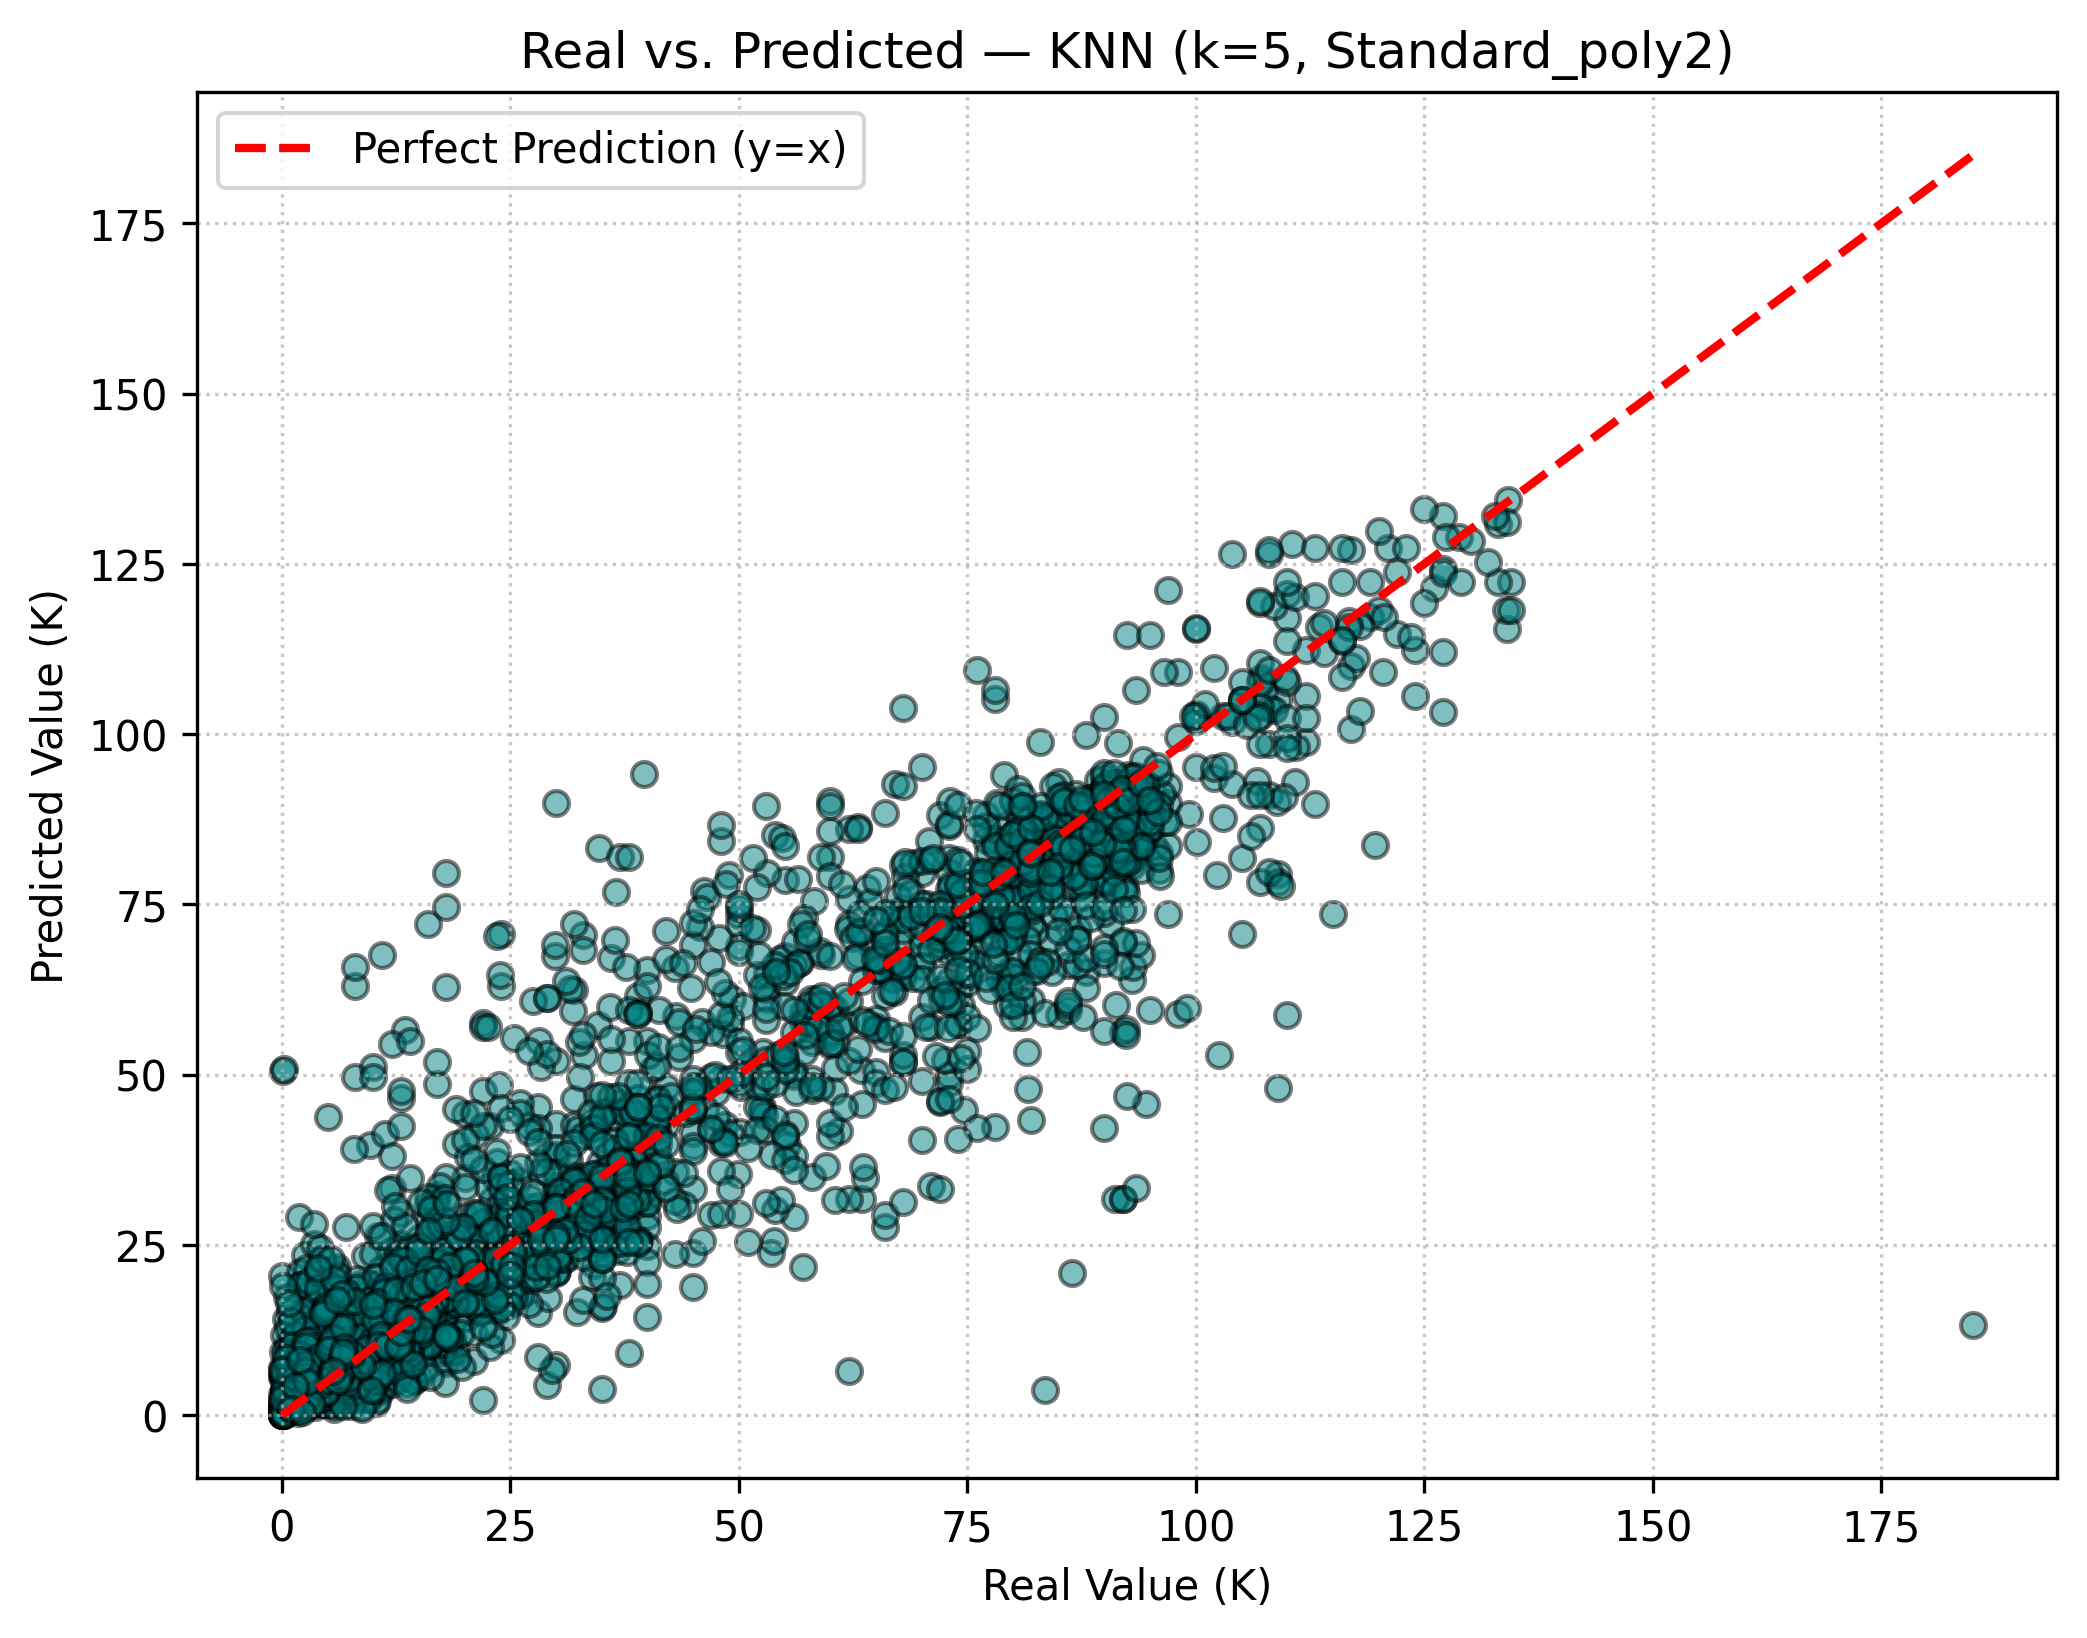
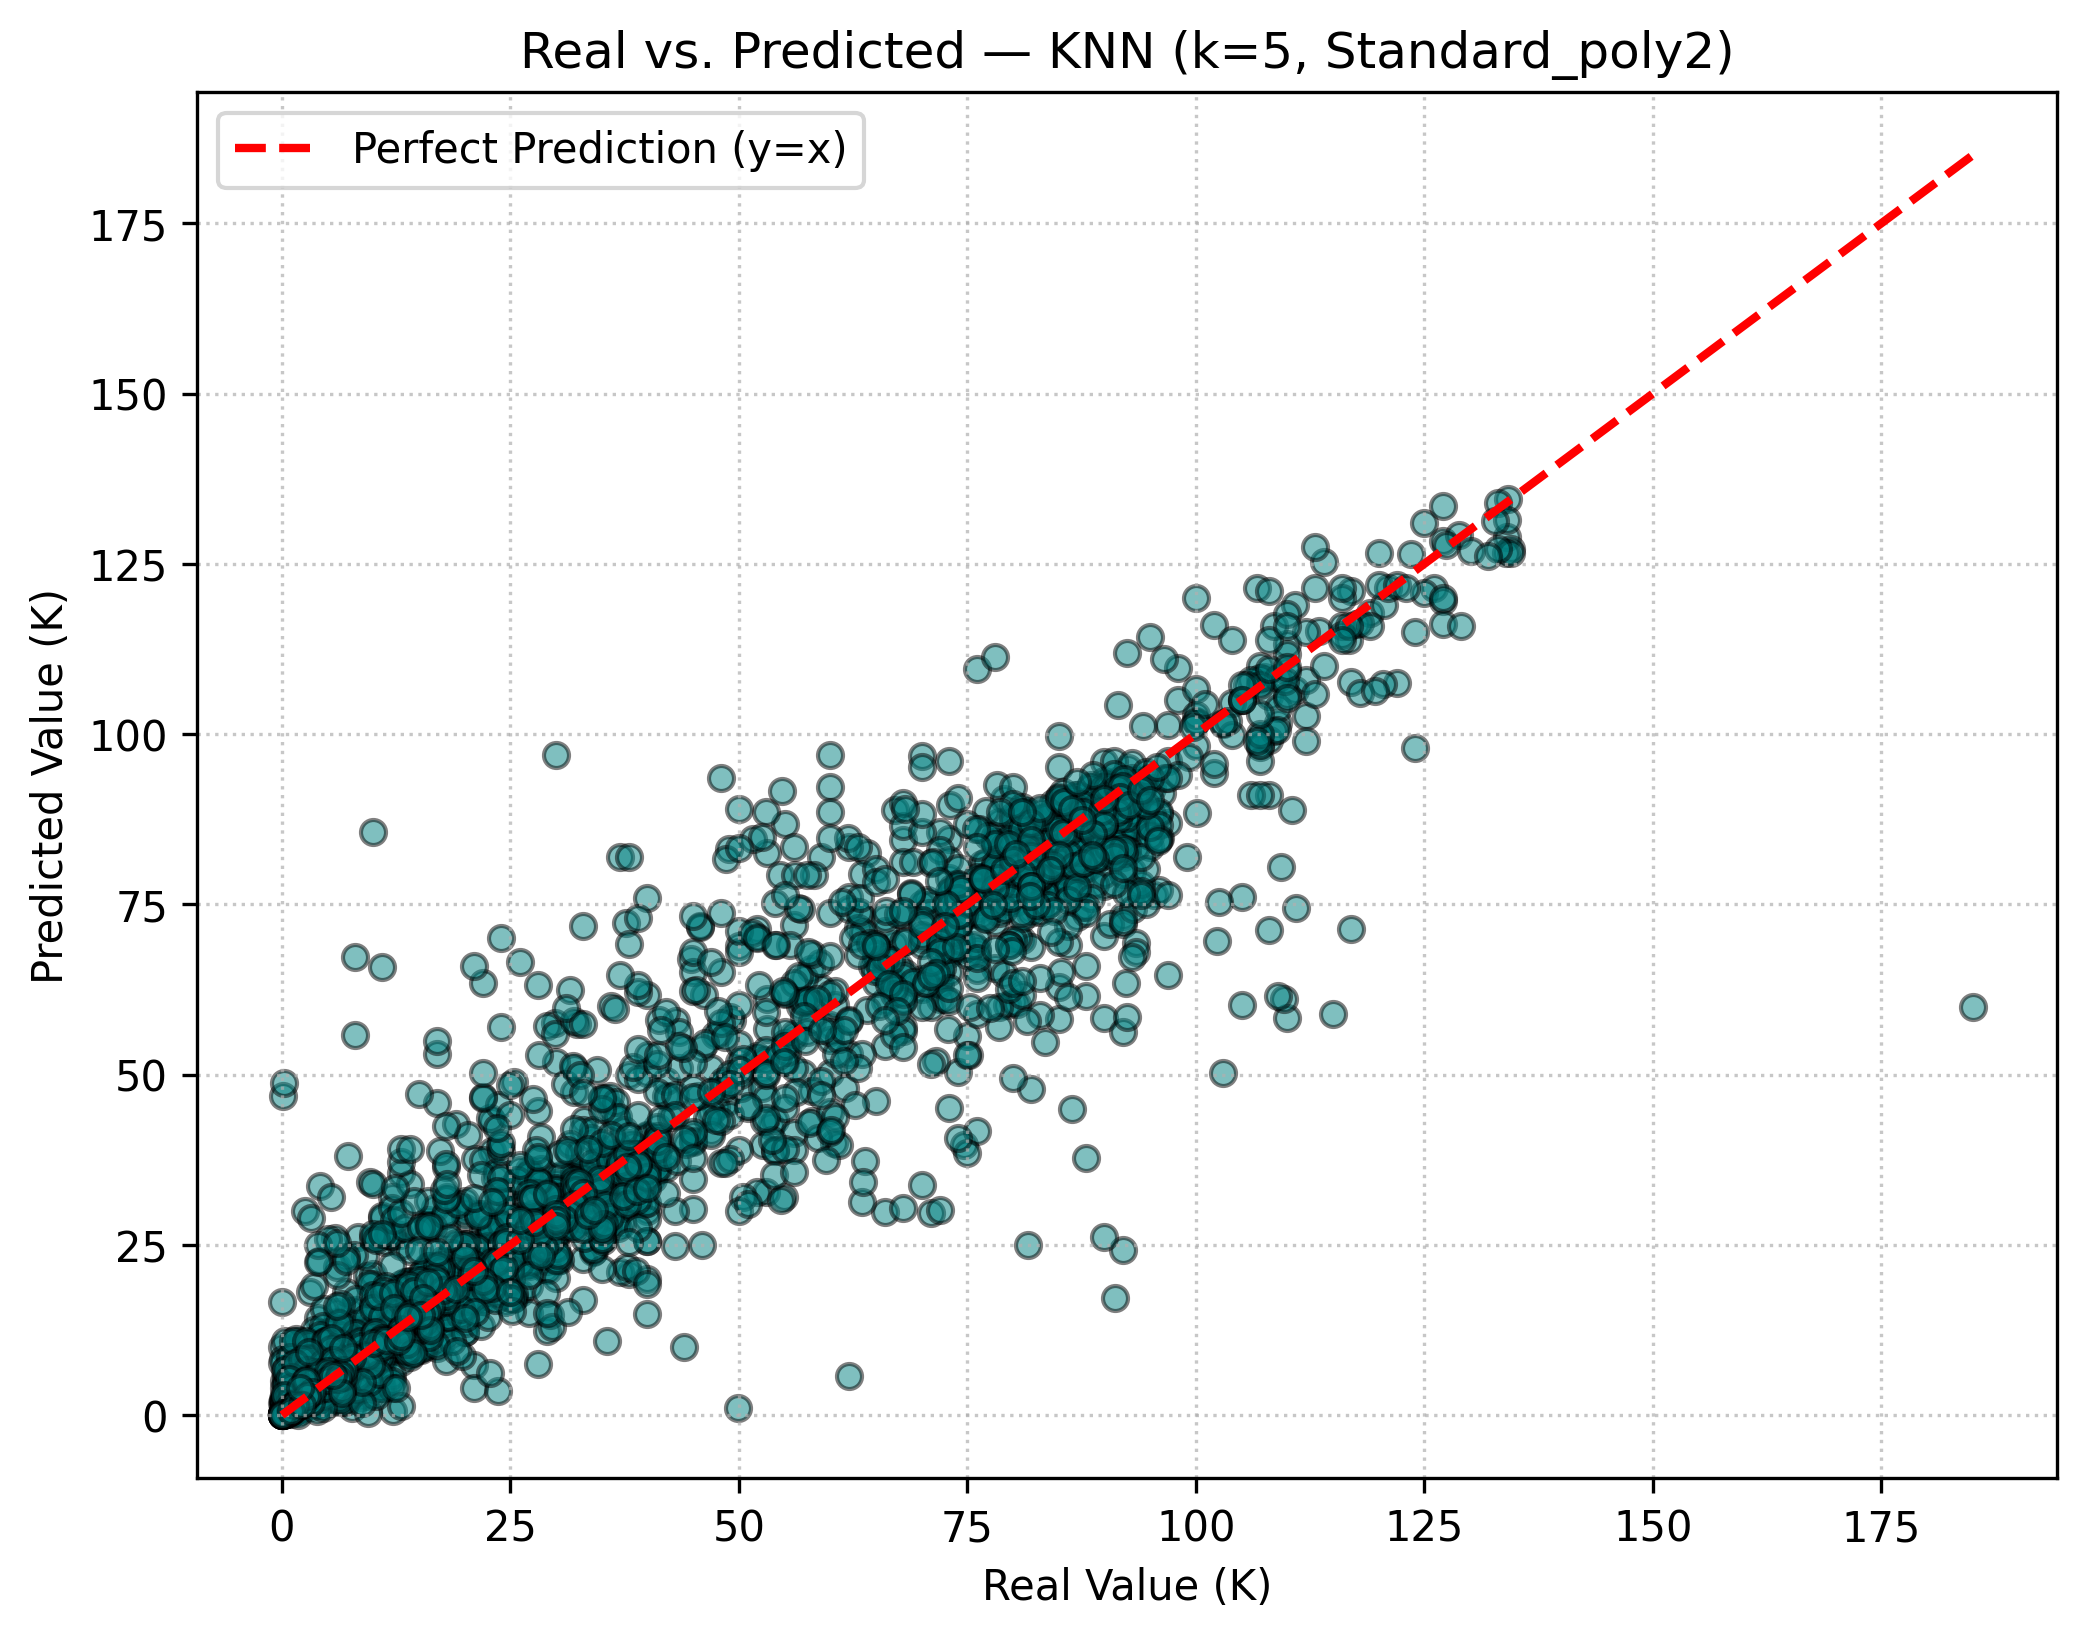
Random Forest Regressor

diff --git a/crit_temp_randomforest.py b/crit_temp_randomforest.py
@@ -4,21 +4,22 @@ import pandas as pd
 import numpy as np
 import matplotlib.pyplot as plt
 import sklearn.preprocessing
-from sklearn.neighbors import KNeighborsRegressor
+from sklearn.ensemble import RandomForestRegressor
+from sklearn.model_selection import RandomizedSearchCV
 from sklearn.preprocessing import PolynomialFeatures
 from sklearn.metrics import mean_squared_error, r2_score, mean_absolute_error, mean_absolute_percentage_error
 
 # ============================================================
 # Settings
 # ============================================================
-MODEL  = "KNN"
+MODEL  = "RandomForest"
 SCALER = "Standard"
 
 USE_POLYNOMIAL = True
 POLY_DEGREE    = 2
 
-# We can test a dense range of neighbors to find the sweet spot
-NEIGHBORS_CANDIDATES = [1, 3, 4, 5, 6, 7, 9, 11, 13, 15, 20, 25, 30, 40, 50]
+# Number of different parameter settings to sample randomly
+N_ITER_SEARCH = 15 
 
 # ============================================================
 # SCALER SELECTION
@@ -29,7 +30,7 @@ scalers = {
 }
 
 # ============================================================
-# DATA LOADING 
+# DATA LOADING (Using Pre-split Files)
 # ============================================================
 train = pd.read_csv("Project/splits/train.csv")
 val   = pd.read_csv("Project/splits/val.csv")
@@ -48,15 +49,10 @@ print("=" * 50)
 # POLYNOMIAL FEATURE EXPANSION
 # ============================================================
 if USE_POLYNOMIAL:
-    poly = PolynomialFeatures(
-        degree=POLY_DEGREE,
-        include_bias=False,
-        interaction_only=False
-    )
+    poly = PolynomialFeatures(degree=POLY_DEGREE, include_bias=False, interaction_only=False)
     x_train_poly = poly.fit_transform(x_train)
     x_val_poly   = poly.transform(x_val)
     x_test_poly  = poly.transform(x_test)
-
     feature_names = poly.get_feature_names_out(x_train.columns)
 else:
     x_train_poly = x_train.values
@@ -64,7 +60,6 @@ else:
     x_test_poly  = x_test.values
     feature_names = x_train.columns.tolist()
 
-# Convert back to temporary DataFrames so we can match MRMR feature names easily
 df_train_poly = pd.DataFrame(x_train_poly, columns=feature_names)
 df_val_poly   = pd.DataFrame(x_val_poly,   columns=feature_names)
 df_test_poly  = pd.DataFrame(x_test_poly,  columns=feature_names)
@@ -74,24 +69,15 @@ df_test_poly  = pd.DataFrame(x_test_poly,  columns=feature_names)
 # ============================================================
 features_file_path = "Project/results/best_mrmr_features.json"
 
-NUM_FEATURES_TO_USE = 775
-
 if not os.path.exists(features_file_path):
-    raise FileNotFoundError(
-        f"Could not find '{features_file_path}'. Please run your MRMR selection "
-        "script first and save the JSON feature list!"
-    )
+    raise FileNotFoundError(f"Could not find '{features_file_path}'. Please run your MRMR script first!")
 
 print(f"Loading pre-calculated features from {features_file_path}...")
 with open(features_file_path, "r") as f:
     ranked_features = json.load(f)
-
-ranked_features = ranked_features[:NUM_FEATURES_TO_USE]
-
-print(f"Loaded {len(ranked_features)} features successfully. Skipping MRMR recalculation!")
 print("=" * 50)
 
-# Keep only the columns selected by MRMR from our expanded feature sets
+# Filter columns
 x_train_mrmr = df_train_poly[ranked_features]
 x_val_mrmr   = df_val_poly[ranked_features]
 x_test_mrmr  = df_test_poly[ranked_features]
@@ -100,7 +86,6 @@ x_test_mrmr  = df_test_poly[ranked_features]
 # SCALING
 # ============================================================
 scaler = scalers[SCALER]
-
 if scaler is not None:
     x_train_scaled = scaler.fit_transform(x_train_mrmr)
     x_val_scaled   = scaler.transform(x_val_mrmr)
@@ -111,48 +96,52 @@ else:
     x_test_scaled  = x_test_mrmr.values
 
 # ============================================================
-# TUNING KNN VIA VALIDATION LOOP
+# COMBINING TRAIN + VAL FOR RANDOMIZED SEARCH
+# RandomizedSearchCV performs internal cross-validation (CV),
+# so we pass it the combined dataset.
 # ============================================================
-best_k = None
-best_val_rmse = float('inf')
+x_trainval_search = np.vstack([x_train_scaled, x_val_scaled])
+y_trainval_search = pd.concat([y_train, y_val]).reset_index(drop=True)
 
-print("[Validating KNN Hyperparameters]")
-for k in NEIGHBORS_CANDIDATES:
-    temp_knn = KNeighborsRegressor(n_neighbors=k, weights='distance')
-    temp_knn.fit(x_train_scaled, y_train)
-    
-    val_preds = temp_knn.predict(x_val_scaled)
-    val_rmse = np.sqrt(mean_squared_error(y_val, val_preds))
-    
-    print(f"  Tested Neighbors k={k:2d} | Validation RMSE: {val_rmse:.4f}")
-    
-    if val_rmse < best_val_rmse:
-        best_val_rmse = val_rmse
-        best_k = k
+# ============================================================
+# PARAMETER DISTRIBUTION DEFINITION
+# ============================================================
+# Define the search space. RandomizedSearchCV will pull random setups from here.
+param_distributions = {
+    'n_estimators': [50, 100, 200, 300],          # Number of trees
+    'max_depth': [None, 10, 20, 30],               # Max depth of trees
+    'min_samples_split': [2, 5, 10],               # Minimum samples to split a node
+    'min_samples_leaf': [1, 2, 4],                 # Minimum samples at a leaf node
+    'max_features': ['sqrt', 'log2', 0.3, 0.5]     # Number of features to consider at each split
+}
 
-print(f"\n=> Best KNN Hyperparameter selected: k={best_k} (Validation RMSE: {best_val_rmse:.4f})")
+# Initialize a base Random Forest
+rf_base = RandomForestRegressor(random_state=42, n_jobs=-1) # n_jobs=-1 uses all CPU cores
+
+# Setup the Randomized Search
+rf_random_search = RandomizedSearchCV(
+    estimator=rf_base,
+    param_distributions=param_distributions,
+    n_iter=N_ITER_SEARCH,
+    cv=3,                                          # 3-fold cross validation
+    scoring='neg_mean_squared_error',              # Optimize for lowest MSE
+    verbose=2,
+    random_state=42,
+    n_jobs=-1
+)
+
+print(f"[Starting Randomized Search trying {N_ITER_SEARCH} different configurations...]")
+rf_random_search.fit(x_trainval_search, y_trainval_search)
+
+print(f"\n=> Best Parameters Found:")
+print(json.dumps(rf_random_search.best_params_, indent=4))
 print("=" * 50)
 
-# ============================================================
-# FINAL TRAINING (Combine Train + Val)
-# ============================================================
-x_trainval_final = np.vstack([x_train_scaled, x_val_scaled])
-y_trainval       = pd.concat([y_train, y_val]).reset_index(drop=True)
-
-print(f"=== Final Model Settings ===")
-print(f"Model      : {MODEL} Regressor")
-print(f"Scaler     : {SCALER}")
-print(f"Polynomial : degree={POLY_DEGREE}" if USE_POLYNOMIAL else "Polynomial : No")
-print(f"Neighbors  : k={best_k}")
-print(f"Features   : {len(ranked_features)}")
-print(f"Final Train Size (train+val): {x_trainval_final.shape[0]}")
-print("-" * 40)
-
-final_model = KNeighborsRegressor(n_neighbors=best_k, weights='distance')
-final_model.fit(x_trainval_final, y_trainval)
+# Extract the winning model configuration
+final_model = rf_random_search.best_estimator_
 
 # ============================================================
-# EVALUATION 
+# EVALUATION (On Unseen Test Data Only)
 # ============================================================
 y_pred = final_model.predict(x_test_scaled)
 
@@ -171,9 +160,9 @@ def evaluate_model(y_true, y_pred):
 
     n_neg = (y_pred < 0).sum()
     print(f"Negative predictions (physically impossible): {n_neg} ({100 * n_neg / len(y_pred):.1f}%)")
-
     return {"rmse": rmse, "mae": mae, "r2": r2, "mape": mape}
 
+print(f"=== Final Test Metrics ({MODEL}) ===")
 metrics = evaluate_model(y_test, y_pred)
 
 # ============================================================
@@ -189,18 +178,14 @@ def plot_predictions(y_true, y_pred):
     print(comparison_df.head(15))
 
     plt.figure(figsize=(8, 6))
-    plt.scatter(y_true, y_pred, alpha=0.5, color="teal", edgecolor="k")
+    plt.scatter(y_true, y_pred, alpha=0.5, color="forestgreen", edgecolor="k")
 
     min_val = min(y_true.min(), y_pred.min())
     max_val = max(y_true.max(), y_pred.max())
-    plt.plot(
-        [min_val, max_val], [min_val, max_val],
-        color="red", linestyle="--", linewidth=2,
-        label="Perfect Prediction (y=x)"
-    )
+    plt.plot([min_val, max_val], [min_val, max_val], color="red", linestyle="--", linewidth=2, label="Perfect Prediction (y=x)")
 
     poly_tag = f"_poly{POLY_DEGREE}" if USE_POLYNOMIAL else ""
-    title = f"Real vs. Predicted — {MODEL} (k={best_k}, {SCALER}{poly_tag})"
+    title = f"Real vs. Predicted — {MODEL} (Randomized Search Best Fit)"
     plt.title(title)
     plt.xlabel("Real Value (K)")
     plt.ylabel("Predicted Value (K)")
@@ -208,7 +193,7 @@ def plot_predictions(y_true, y_pred):
     plt.grid(True, linestyle=":", alpha=0.7)
 
     os.makedirs("Project/results", exist_ok=True)
-    name = f"Project/results/grafico_{MODEL.lower()}_k{best_k}_{SCALER.lower()}{poly_tag}.png"
+    name = f"Project/results/grafico_{MODEL.lower()}_{SCALER.lower()}{poly_tag}.png"
     plt.savefig(name, dpi=300, bbox_inches="tight")
     print(f"\nPlot saved to: {name}")
 
